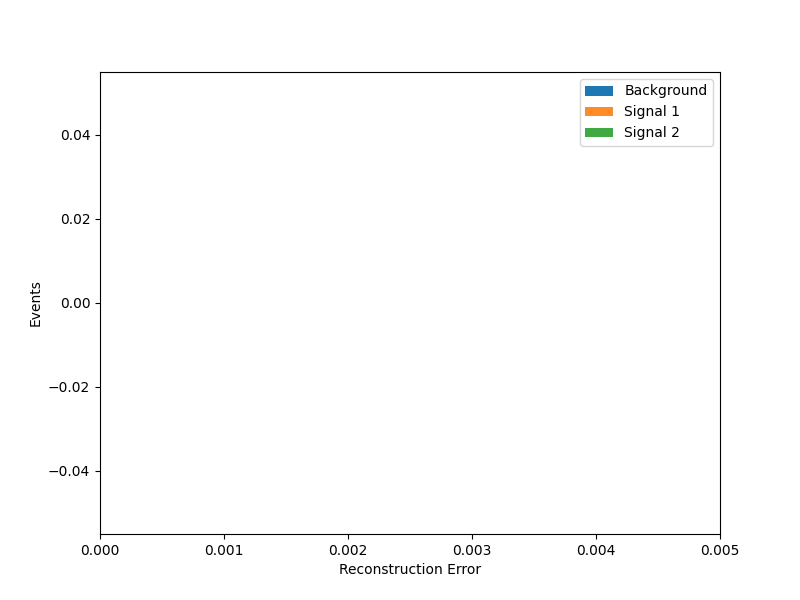
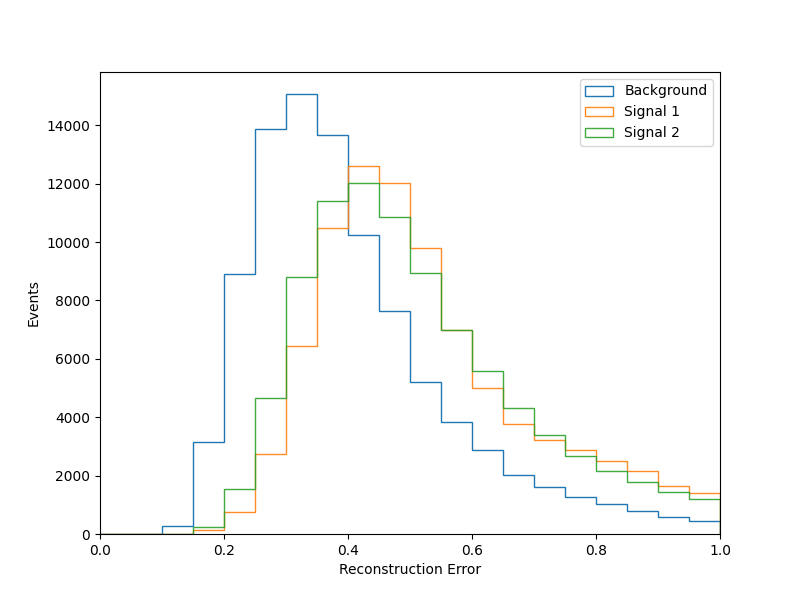
Testing with standard scaling and 21, 14 layer dimensions

diff --git a/test.py b/test.py
@@ -122,12 +122,12 @@ loss_sig2_total = loss_sig2.sum(axis=1) / 42
 # Plot Total Reconstruction Error
 nbins = 20
 fig, axes = plt.subplots(figsize=(8,6))
-axes.hist([loss_bkg_total], nbins, range=(0, 0.005), density=0, histtype='bar', label=['Background'], stacked=True, alpha=1)
-axes.hist([loss_sig1_total], nbins, range=(0, 0.005), density=0, histtype='bar', label=['Signal 1'], stacked=True, alpha=0.9)
-axes.hist([loss_sig2_total], nbins, range=(0, 0.005), density=0, histtype='bar', label=['Signal 2'], stacked=True, alpha=0.9)
+axes.hist([loss_bkg_total], nbins, range=(0, 1), density=0, histtype='step', label=['Background'], stacked=True, alpha=1)
+axes.hist([loss_sig1_total], nbins, range=(0, 1), density=0, histtype='step', label=['Signal 1'], stacked=True, alpha=0.9)
+axes.hist([loss_sig2_total], nbins, range=(0, 1), density=0, histtype='step', label=['Signal 2'], stacked=True, alpha=0.9)
 axes.set_xlabel(r"Reconstruction Error")
 axes.set_ylabel("Events")
-axes.set_xlim(0, 0.005)
+axes.set_xlim(0, 1)
 axes.legend(loc='upper right')
 fig.savefig(f"figs/testing/reconstruction_error_{scale}_{mid_dim}_{latent_dim}.png")
 
